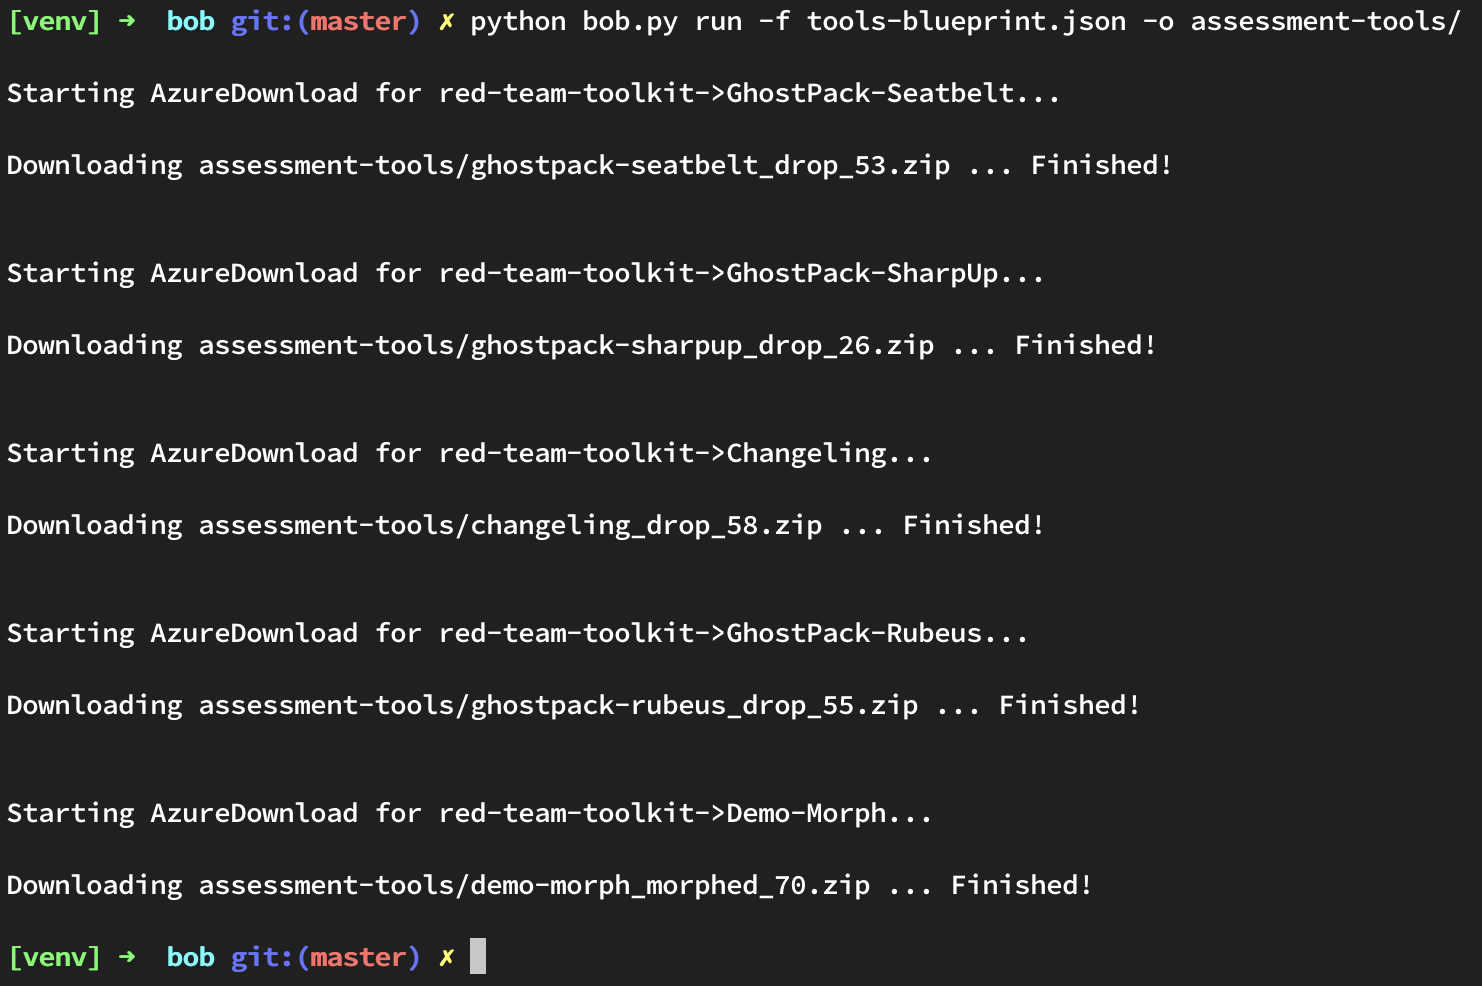
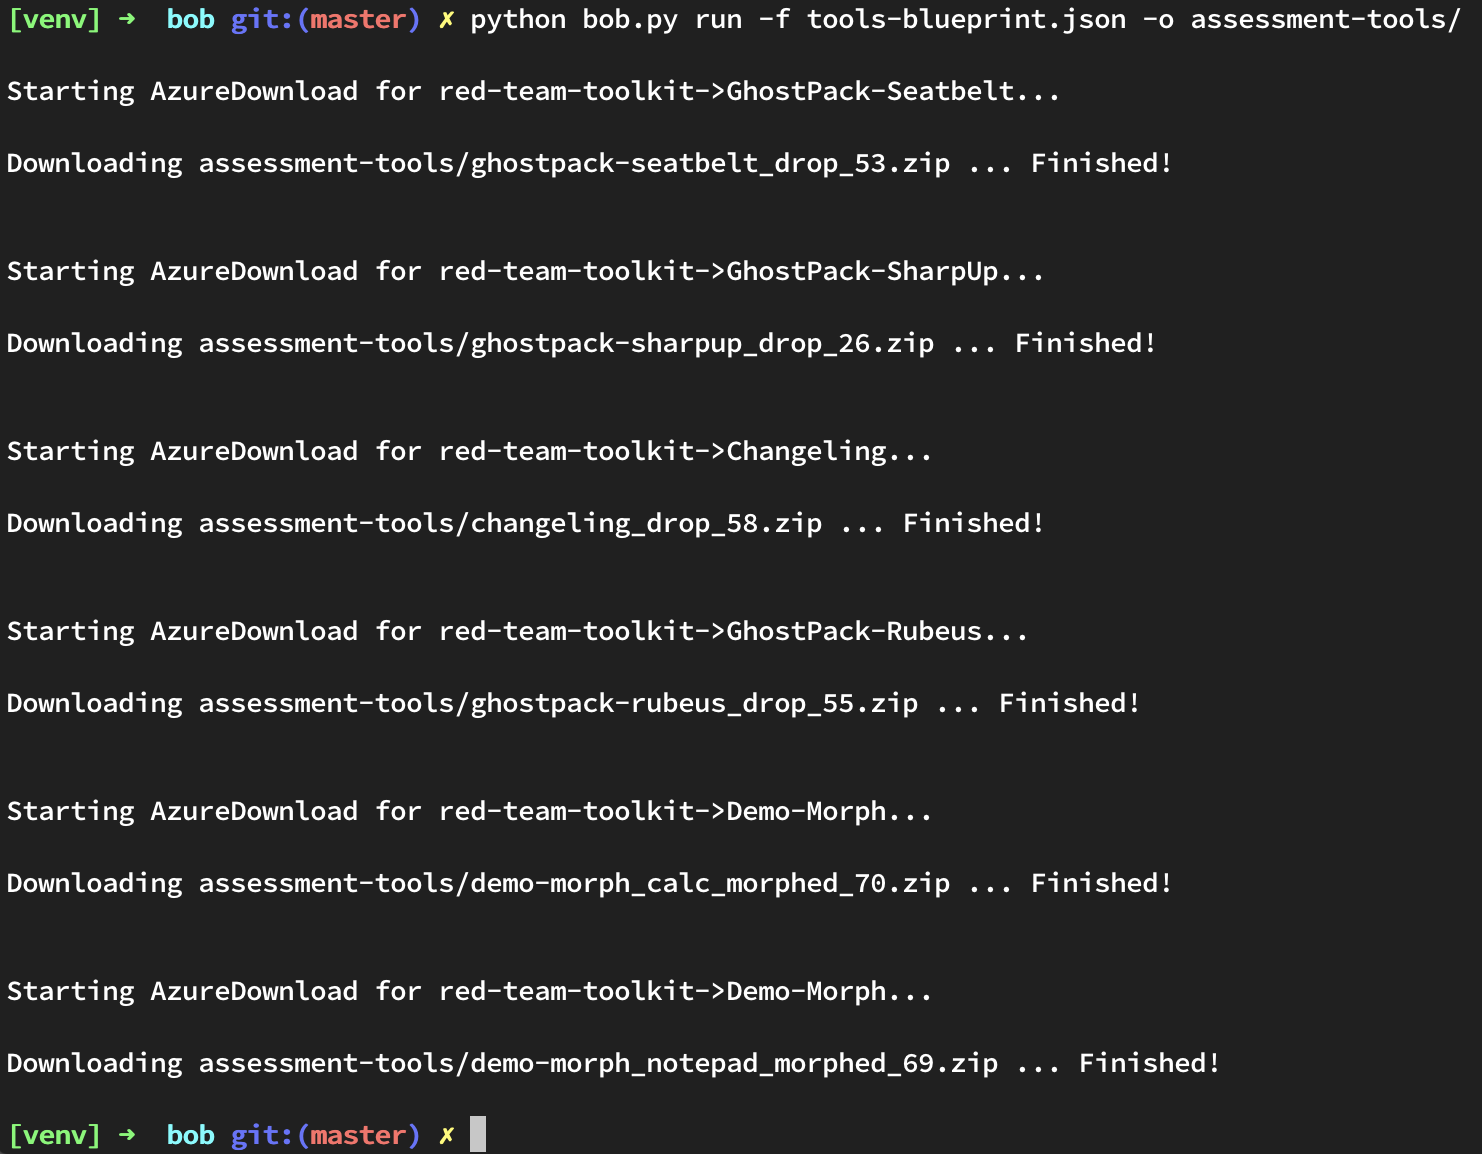
* Update bob post

diff --git a/_posts/2020-04-04-automation-through-azure-with-bob.md b/_posts/2020-04-04-automation-through-azure-with-bob.md
@@ -13,7 +13,7 @@ To skip straight to the details on how to use Bob, [click here](#finally-tell-me
 
 ## The Problem
 
-Not to repeat the issue facing offensive teams, but manually building payloads sucks. I’m not talking about the problem-solving challenge of creating payloads, but compiling and substituting all of your options by hand is tedious and boring. Changeling assists with part of that, but what if swapping out embedded resources isn't enough to reconfigure your tools? What if you still need to recompile a payload? If you haven't read up on Azure DevOps, I encourage you to pause and read the introductory posts by [@_xpn_](https://blog.xpnsec.com/building-modifying-packing-devops/) and [@424f424f](https://medium.com/@rvrsh3ll/getting-started-with-azuredevops-8bf0bf089bc3) before continuing.
+Not to repeat the issue facing offensive teams, but manually building payloads sucks. I’m not talking about the problem-solving challenge of creating payloads, but compiling and substituting all of your options by hand is tedious and boring. Changeling assists with part of that, but what if swapping out embedded resources isn't enough to reconfigure your tools? What if you still need to recompile a payload? If you haven't read up on Azure DevOps, I encourage you to pause and read the introductory posts by [@\_xpn\_](https://blog.xpnsec.com/building-modifying-packing-devops/) and [@424f424f](https://medium.com/@rvrsh3ll/getting-started-with-azuredevops-8bf0bf089bc3) before continuing.
 
 Once you are familiar with DevOps, you realize that it can be an incredible tool! However, queuing builds, and retrieving artifacts can be slightly cumbersome, especially if you are trying to move payloads across to a different op box. As Steve mentions in one of the articles above, there's not a known way (at least to me) of selecting all pipelines and downloading artifacts for all of them. I needed a fast way to modify, build, and retrieve payloads on my assessments without needing to open up a web browser and tweak things, and I wanted these tasks to be repeatable, shareable, and easily retrievable. This is where Bob comes in.
 
@@ -162,7 +162,7 @@ The resulting blueprint will look like this:
 
 For the most part, this JSON object should be self-explanatory. It shows the project and definition for this build, it states the artifacts from the build will be downloaded, and that it will build from the master branch of the repository. You can also see the `CONFIGURATIONS` variable we created earlier, and its default value. The tags field exists so that you can tag your builds for more advanced usage, which we can cover in a later post.
 
-Let’s say we want to build Demo with the `TARGET_PROCESS` of `notepad`, but we also want to build it with a `TARGET_PROCESS` of `calc`. Do we need to run through Bob again? Nope, just add a new build instance to the current blueprint:
+Let’s say we want to build Demo with the `TARGET_PROCESS` of `notepad`, but we also want to build it with a `TARGET_PROCESS` of `calc`. Do we need to run through Bob again? Nope, just add a new configuration item to the current blueprint:
 
 ```json
 ...snip...
@@ -185,7 +185,7 @@ Let’s say we want to build Demo with the `TARGET_PROCESS` of `notepad`, but
 ...snip...
 ```
 
-Ok, that's pretty cool! The more elements you place in the `CONFIGURATIONS` array here, the more loops the PowerShell task will do, and the more payloads you'll generate. What if you want to be able to distinguish between these builds later? In that case, you can split them into different builds on Azure DevOps, and use `tags` to be able to reference specific builds later.
+Ok, that's pretty cool! The more elements you place in the `CONFIGURATIONS` array here, the more loops the PowerShell task will do, and the more payloads you'll generate. What if you want to be able to distinguish between these builds later? In that case, you can split them into different builds on Azure DevOps by adding to the `build_instances` item in the blueprint, and you can use the `tags` item to tag them with labels for easy reference later.
 
 ```json
 [
@@ -283,12 +283,19 @@ This generates a blueprint file that looks like the following:
         "definition": "Demo-Morph",
         "project": "red-team-toolkit",
         "source_branch": "master",
-        "tags": []
+        "tags": ["calc"]
+    },
+    {
+        "__type__": "AzureDownload",
+        "definition": "Demo-Morph",
+        "project": "red-team-toolkit",
+        "source_branch": "master",
+        "tags": ["notepad"]
     }
 ]
 ```
 
-This is fairly straightforward. The only modifications you might make are to the `source_branch` and `tags` fields to suit your own requirements. The `source_branch` field tells Bob which Git branches the builds should have occurred on, and the `tags` field tells Bob which Azure DevOps Build Tags to download (these are not Git tags).  Upon running this with Bob, as expected, all of the listed tools are retrieved and ready for your next engagement.
+This is fairly straightforward. The only modifications you might make are to the `source_branch` and `tags` fields to suit your own requirements. The `source_branch` field tells Bob which Git branches the builds should have occurred on, and the `tags` field tells Bob which Azure DevOps Build Tags to download (these are not Git tags). If you recall from earlier, we tagged our Demo-Morph builds with `calc` and `notepad` tags to distinguish between which build would inject into which application. We use those tags in teh blueprint above to download the appropriate versions. Upon running this with Bob, as expected, all of the listed tools are retrieved and ready for your next engagement.
 
 {% include figure image_path="/assets/images/2020-04-04-automation-through-azure-devops-with-bob/bob-run-downloads.png" caption="Bob Downloads Tools from Azure" %}
 
